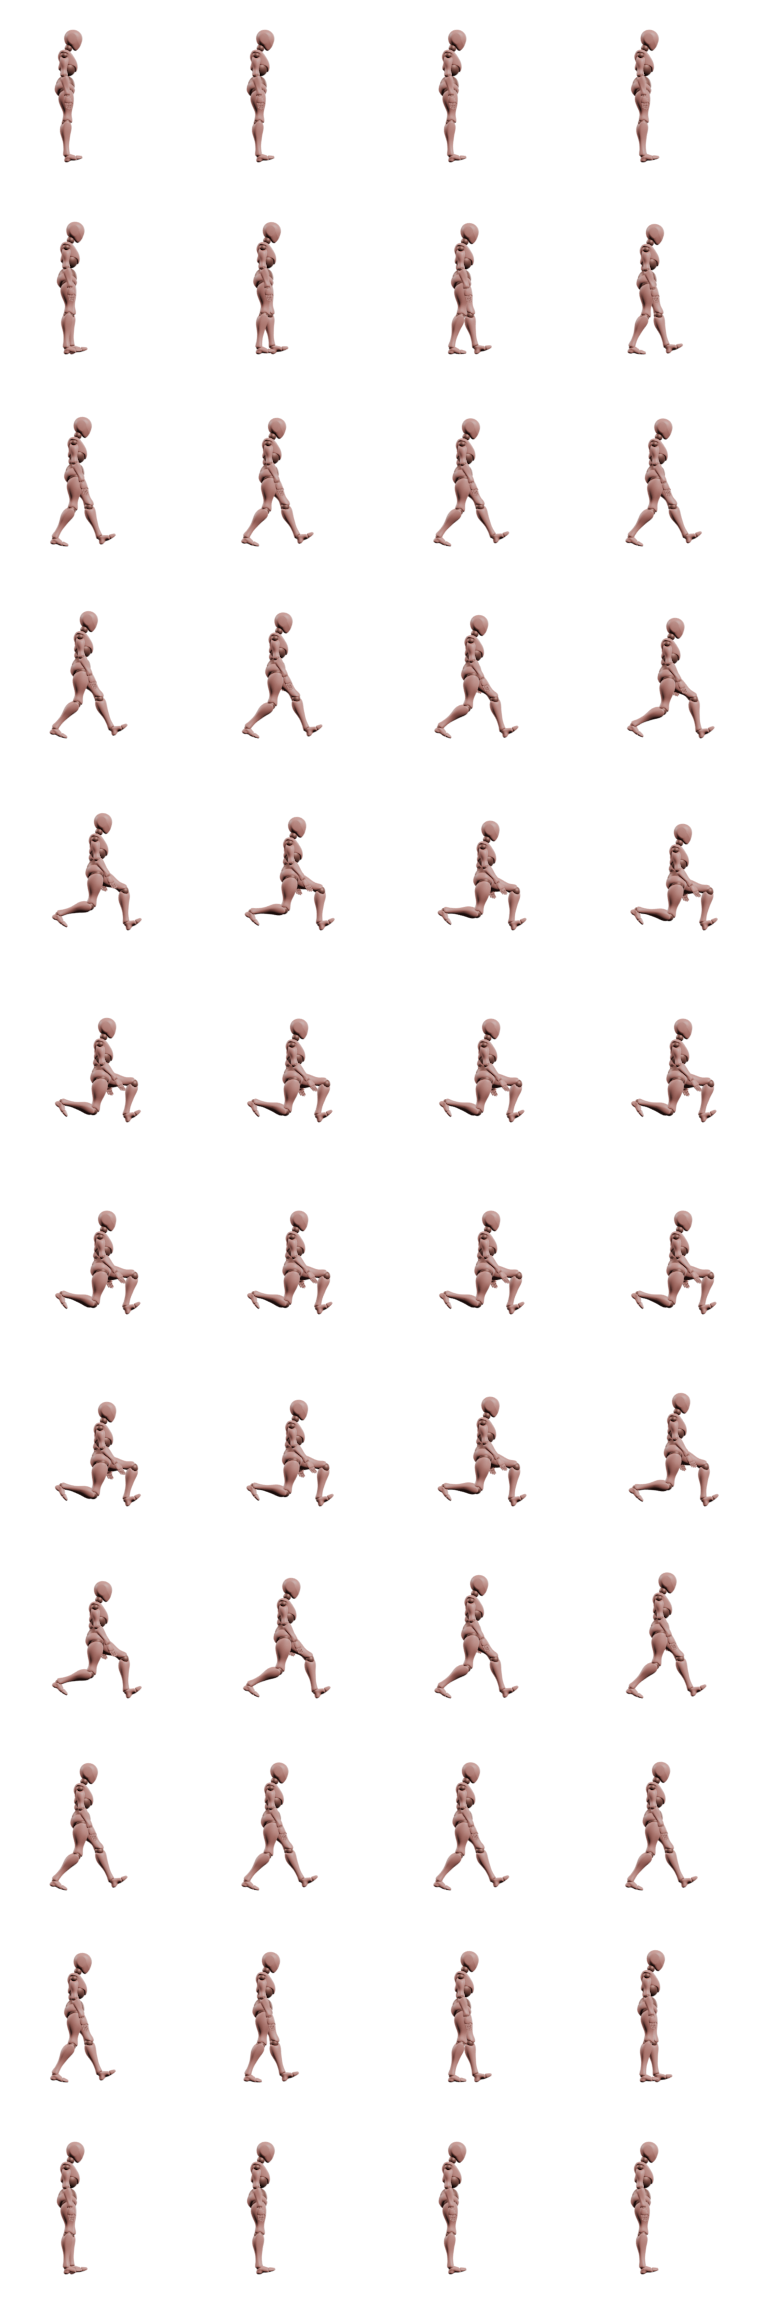
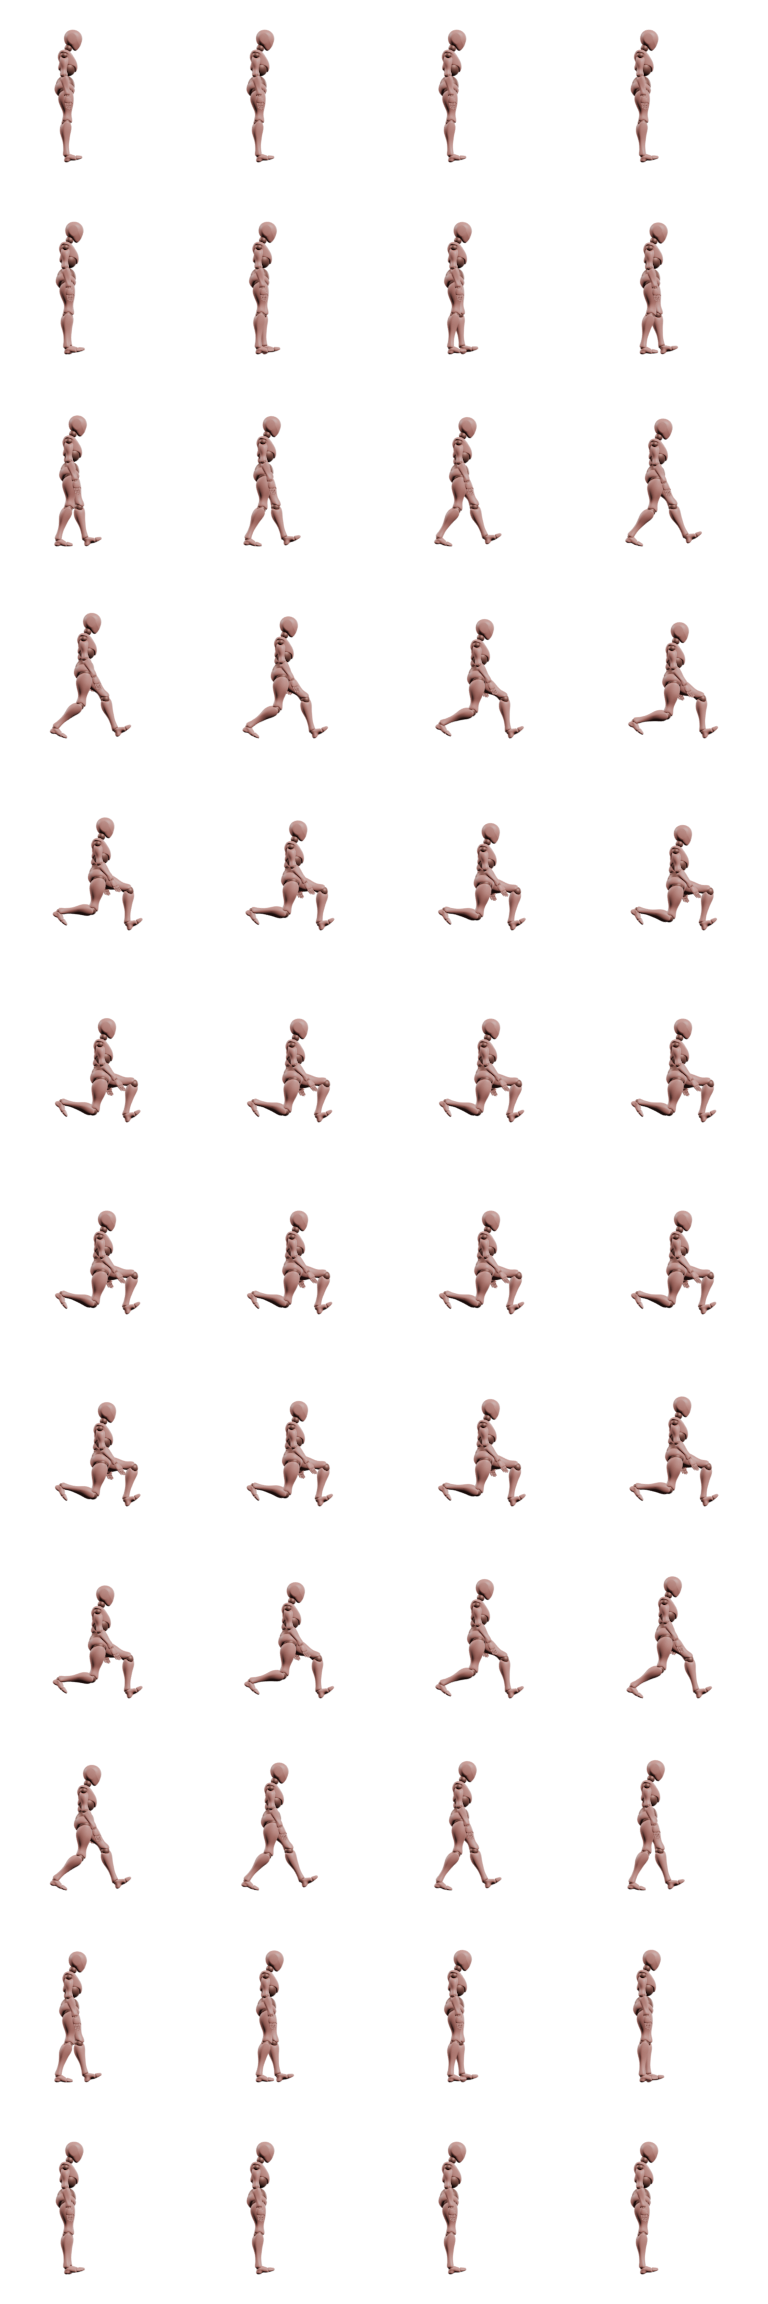
Le saut squaté monte enfin, et rien n'est plus rogné
Le saut faisait vingt-deux centimètres, puis cinquante-huit au prix des
doigts coupés au sommet sur trois images. Il en fait soixante-deux, et le
cadre les contient.

La place a été prise sur les bras. Un squat sauté n'est pas un jumping
jack : les bras accompagnent la poussée et s'arrêtent à hauteur d'épaule,
ils ne cherchent pas le plafond. Tant qu'ils restent sous le crâne, c'est
la tête qui plafonne la silhouette, et le corps peut monter. Le tour passe
de 1,8 à 2,2 s et le souffle du sommet de cinq à huit centièmes — « le
saut est trop court » ne parlait pas de la hauteur mais du temps en l'air.

Deux gardes en plus, l'une dans le rendu, l'autre dans le contrôle.

La caméra ne coupe plus par le bas. Quand un geste dépasse le champ, le
centrer sur son encombrement partage le débordement en deux et rogne les
pieds autant que les doigts. Les deux bouts ne se valent pas : des doigts
rognés au sommet d'un saut se voient sur deux images, des pieds rognés se
voient sur toutes celles où le corps est au sol, et le personnage paraît
enfoncé dans le plancher. Le bas du cadre se pose donc sur le point le
plus bas du geste. La condition est stricte — tant que le geste tient dans
le champ, on n'y touche pas.

Le contrôle des planches sait maintenant distinguer une silhouette
tranchée d'une silhouette tangente. Toucher le bord ne suffit pas à
conclure : le burpee fait exactement deux mètres soixante pour un champ de
[…]

diff --git a/mobile/src/donnees/planches.ts b/mobile/src/donnees/planches.ts
@@ -297,7 +297,7 @@ export const PLANCHES: Record<string, Planche> = {
     source: require("../../assets/gestes/squat-saute.png"),
     images: 32,
     colonnes: 4,
-    duree: 1800,
+    duree: 2200,
   },
   // Deux gestes de cardio tirés d'une même vidéo, qui en contenait trois.
   //

diff --git a/scripts/gestes_generes.py b/scripts/gestes_generes.py
@@ -1117,7 +1117,7 @@ GESTES = {
         # trop vite pour se lire. Un squat sauté enchaîné tourne autour de deux
         # secondes par répétition, dont l'essentiel au sol — on descend, on
         # arme, on pousse, et le vol lui-même est bref.
-        "duree": 1800,
+        "duree": 2200,
         # Le corps quitte vraiment le sol : le contact est calculé normalement
         # sur le maillage à chaque pose, puis le corps est soulevé de la
         # hauteur déclarée. Cinq centimètres à l'extension — le talon vient de
@@ -1125,15 +1125,26 @@ GESTES = {
         #
         # Vingt-deux ne suffisaient pas : à l'échelle du cadre, un saut de
         # vingt centimètres se confond avec un simple redressement sur la
-        # pointe des pieds. La place a été prise sur les bras, qui restent
-        # à la hauteur de l'extension au lieu de monter à la verticale —
-        # voir la dernière clé.
-        "envol": [0.0, 0.05, 0.58],
+        # pointe des pieds. La place a été prise sur les bras, qui ne montent
+        # plus au-dessus du crâne — voir les deux dernières clés.
+        #
+        # Soixante-deux centimètres, et le compte tombe juste : pointes
+        # tendues, le corps mesure un mètre quatre-vingt-trois du bout des
+        # orteils au sommet du crâne, ce qui fait deux mètres quarante-cinq
+        # au plus haut pour un champ de deux mètres soixante.
+        "envol": [0.0, 0.05, 0.62],
         # Un temps au point bas — c'est là qu'on amortit et qu'on réarme — et
         # un souffle au sommet, où un corps qui monte s'arrête avant de
         # redescendre. Sans lui le sommet est un simple rebroussement, et le
         # saut paraît sec.
-        "pauses": [0.18, 0.00, 0.05],
+        #
+        # Le souffle du sommet passe de cinq à huit centièmes du tour : « le
+        # saut est trop court » ne parle pas de la hauteur mais du temps passé
+        # en l'air, et c'est ce temps-là qu'on allonge. La durée du tour suit,
+        # de 1,8 à 2,2 s — un squat sauté enchaîné tourne autour de deux
+        # secondes, dont sept dixièmes de vol pour un saut de soixante
+        # centimètres.
+        "pauses": [0.20, 0.00, 0.08],
         "cles": [
             # Le point bas, relevé sur la captation du squat.
             _pose({
@@ -1160,16 +1171,23 @@ GESTES = {
             }),
             # L'extension : corps aligné de la cheville à la tête, talons
             # décollés, bras lancés vers l'avant et le haut.
+            #
+            # Vers l'avant surtout : le lancer s'arrête à hauteur d'épaule, et
+            # c'est ce qui laisse la place au saut. Un squat sauté n'est pas un
+            # jumping jack — les bras accompagnent la poussée, ils ne cherchent
+            # pas le plafond. Tant qu'ils restent sous le crâne, c'est la tête
+            # qui plafonne la silhouette et le corps peut monter de soixante
+            # centimètres sans qu'on rogne les doigts.
             _pose({
                 _os("Spine"): (+0.00, -0.05, +1.00),
                 _os("Spine1"): (+0.00, -0.05, +1.00),
                 _os("Spine2"): (+0.00, -0.05, +1.00),
                 _os("Neck"): (+0.00, -0.05, +1.00),
                 _os("Head"): (+0.00, -0.03, +1.00),
-                _os("LeftArm"): (+0.20, -0.70, +0.68),
-                _os("RightArm"): (-0.20, -0.70, +0.68),
-                _os("LeftForeArm"): (+0.15, -0.55, +0.82),
-                _os("RightForeArm"): (-0.15, -0.55, +0.82),
+                _os("LeftArm"): (+0.18, -0.88, +0.44),
+                _os("RightArm"): (-0.18, -0.88, +0.44),
+                _os("LeftForeArm"): (+0.14, -0.94, +0.31),
+                _os("RightForeArm"): (-0.14, -0.94, +0.31),
                 _os("LeftHand"): SUIVRE,
                 _os("RightHand"): SUIVRE,
                 _os("LeftUpLeg"): (+0.02, -0.03, -1.00),
@@ -1183,21 +1201,21 @@ GESTES = {
             #
             # Ils ne montent pas plus haut qu'à l'extension, et c'est ce qui
             # permet au saut d'être haut. Le cadrage est commun à toutes les
-            # planches — 2,6 m — et le personnage l'occupait déjà presque
-            # entièrement : bras tendus au-dessus de la tête, il ne restait que
-            # onze pixels de marge sur deux cent cinquante-six, donc plus de
-            # place pour monter. Le lancer des bras se fait au décollage ; en
-            # l'air ils accompagnent, ils ne poussent plus.
+            # planches — 2,6 m — et il faut bien que quelque chose y tienne :
+            # soit les bras montent et le corps reste au sol, soit les bras
+            # s'arrêtent à l'épaule et le corps décolle. On a choisi le corps,
+            # qui est le sujet de l'exercice. Le lancer des bras se fait au
+            # décollage ; en l'air ils accompagnent, ils ne poussent plus.
             _pose({
                 _os("Spine"): (+0.00, -0.02, +1.00),
                 _os("Spine1"): (+0.00, -0.02, +1.00),
                 _os("Spine2"): (+0.00, -0.02, +1.00),
                 _os("Neck"): (+0.00, -0.02, +1.00),
                 _os("Head"): (+0.00, -0.02, +1.00),
-                _os("LeftArm"): (+0.20, -0.70, +0.68),
-                _os("RightArm"): (-0.20, -0.70, +0.68),
-                _os("LeftForeArm"): (+0.15, -0.55, +0.82),
-                _os("RightForeArm"): (-0.15, -0.55, +0.82),
+                _os("LeftArm"): (+0.18, -0.88, +0.44),
+                _os("RightArm"): (-0.18, -0.88, +0.44),
+                _os("LeftForeArm"): (+0.14, -0.94, +0.31),
+                _os("RightForeArm"): (-0.14, -0.94, +0.31),
                 _os("LeftHand"): SUIVRE,
                 _os("RightHand"): SUIVRE,
                 _os("LeftUpLeg"): (+0.02, -0.02, -1.00),

diff --git a/scripts/verifier-planches.py b/scripts/verifier-planches.py
@@ -105,6 +105,39 @@ def controler(slug, images, colonnes, duree):
                 "mais l'ancien personnage habillé"
             )
 
+    # Le cadrage est calculé sur l'encombrement du geste : si le corps sort du
+    # cadre, il est rogné. Un saut trop haut coupait les doigts de neuf pixels
+    # au sommet, sur trois images — le genre de chose qui ne se voit qu'en
+    # arrêtant l'animation pile là.
+    #
+    # Toucher le bord ne suffit pourtant pas à conclure. Un geste qui remplit
+    # le cadre **exactement** l'effleure sans rien y perdre, et c'est le cas du
+    # burpee : deux mètres soixante de haut pour un champ de deux mètres
+    # soixante. Ce qui sépare l'effleurement de la coupe se lit dans l'alpha du
+    # bord. Une silhouette tangente n'y pose que son liseré antialiasé — sur le
+    # burpee, sept contacts de bord, pas **un seul** pixel au-dessus de 200. Un
+    # corps tranché y montre sa chair pleine : le pied coupé du saut squaté en
+    # alignait vingt-trois à 255, et les doigts coupés au sommet, cinq.
+    #
+    # On compte donc les pixels franchement opaques, et non les pixels visibles.
+    alpha = rgba[:, :, 3]
+    for k in range(images):
+        c, l = k % colonnes, k // colonnes
+        v = alpha[l * hauteur:(l + 1) * hauteur, c * largeur:(c + 1) * largeur]
+        bords = {
+            "haut": int((v[0, :] > 200).sum()),
+            "bas": int((v[-1, :] > 200).sum()),
+            "gauche": int((v[:, 0] > 200).sum()),
+            "droite": int((v[:, -1] > 200).sum()),
+        }
+        touches = {nom: n for nom, n in bords.items() if n}
+        if touches:
+            fautes.append(
+                f"image {k + 1} rognée : "
+                + ", ".join(f"{n} px pleins sur le bord {nom}" for nom, n in touches.items())
+            )
+            break
+
     gris = np.array(brut.convert("LA")).astype(float)
     h, w = gris.shape[0] // lignes, gris.shape[1] // colonnes
     vignettes = []

diff --git a/scripts/rendre-geste.py b/scripts/rendre-geste.py
@@ -337,6 +337,31 @@ def placer_camera(mini, maxi, vue, echelle, plongee=0.0, perspective=False):
 
     champ = echelle if echelle else max(largeur, taille.z) * 1.15
 
+    # Un geste peut être plus haut que le champ : le saut squaté partait du sol
+    # et montait les doigts à deux mètres soixante-seize, pour un cadre de deux
+    # mètres soixante. Centrer sur l'encombrement partage alors le débordement
+    # en deux et coupe **par le bas** autant que par le haut — c'est-à-dire les
+    # pieds.
+    #
+    # Or les deux bouts ne se valent pas. Des doigts rognés au sommet d'un saut
+    # se voient sur deux images ; des pieds rognés se voient sur toutes celles
+    # où le corps est au sol, et le personnage paraît enfoncé dans le plancher.
+    # On pose donc le bas du cadre sur le point le plus bas du geste et l'on
+    # perd tout en haut.
+    #
+    # La condition est stricte, et c'est voulu : tant que le geste **tient**
+    # dans le champ, le centrage lui laisse déjà de la marge des deux côtés et
+    # y toucher ne ferait que déplacer le vide. Le burpee, qui fait exactement
+    # deux mètres soixante, tient encore — il effleure les deux bords sans rien
+    # y perdre, et descendre la caméra lui couperait les doigts pour rien.
+    if taille.z > champ:
+        centre = Vector((centre.x, centre.y, mini.z + champ / 2))
+        print(
+            f"Le geste fait {taille.z:.2f} m de haut pour un champ de "
+            f"{champ:.2f} m : cadre posé au sol, il manque "
+            f"{(taille.z - champ) * 100:.0f} cm en haut."
+        )
+
     if perspective:
         # Une caméra orthographique ne fait pas **converger** les fuyantes : un
         # damier au sol y garde des cases identiques d'un bout à l'autre et se
